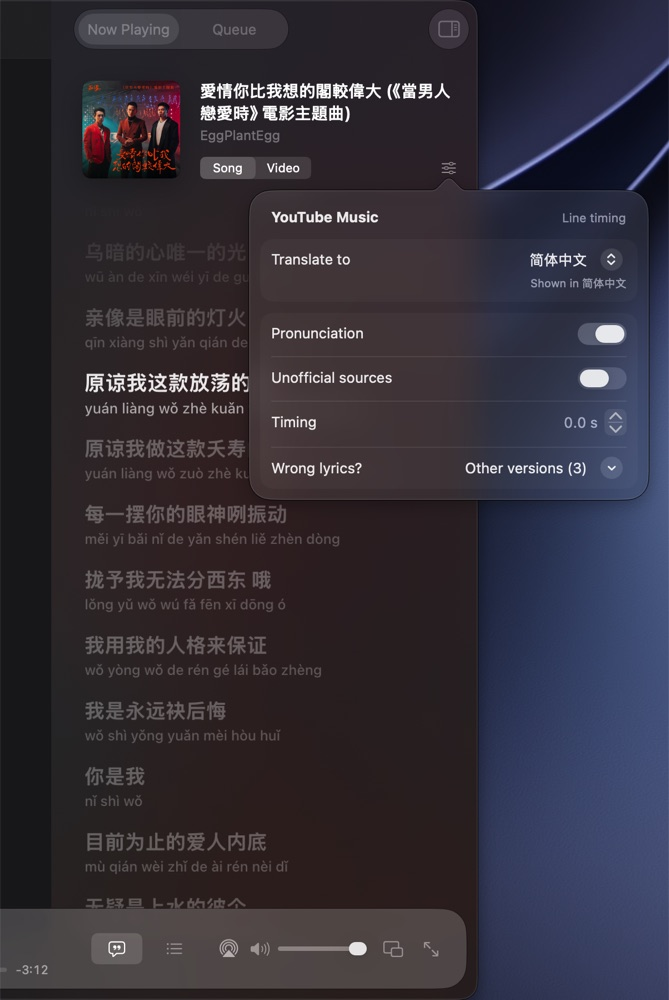
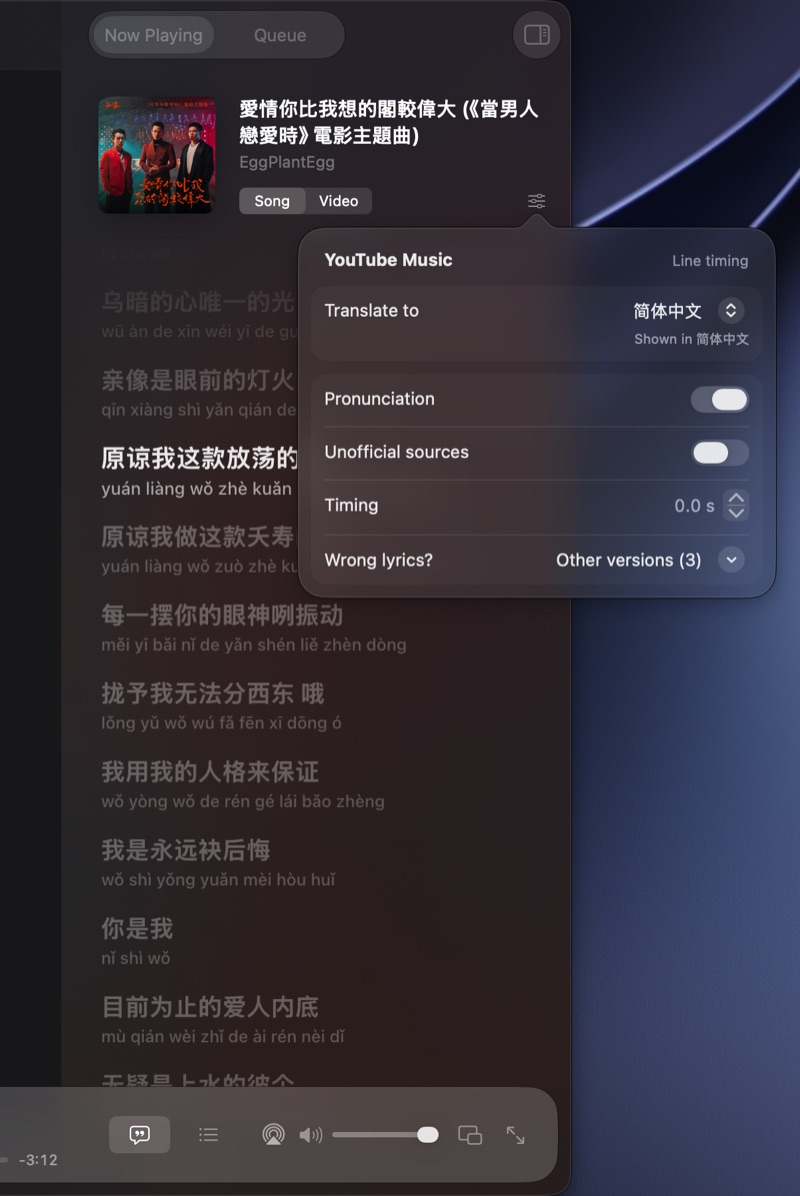
README: the original screenshots behind the LinkedIn post (full-screen player, my library, song colour) and a "Why QTube Music?" section

diff --git a/README.md b/README.md
@@ -7,7 +7,30 @@ comments, no feeds.
 QTube Music is an unofficial client. It isn't made, endorsed or supported by Google or YouTube. You need a
 YouTube Music account to see your library. You can browse and play without one, with ads, the same as on the web.
 
-![The Stage, with a vinyl turntable and word-synced lyrics with a Chinese translation](docs/images/stage.jpg)
+![The full-screen player: cover art and synced lyrics, in the cover's colour](docs/images/stage.jpg)
+
+## Why QTube Music?
+
+You can already listen to YouTube Music in a browser tab, in the website wrapped as a desktop app, or in other
+third-party clients. QTube Music exists because none of those feel like a Mac music app.
+
+- **Native, not a web page in a frame.** It's built in SwiftUI and AppKit, with real menus, keyboard shortcuts,
+  tables, Settings and Liquid Glass. Other clients usually wrap the YouTube Music website in Electron or a hidden
+  web view. Here YouTube's player runs only for playback, and everything you see and touch is the app's own.
+- **Light on your battery.** Measured on Apple silicon: under 1 % CPU when idle, and about 4–5 % in total (the app
+  plus YouTube's player) while playing in the window or on the Stage. Method and numbers are in
+  [docs/perf.md](docs/perf.md).
+- **Plays nicely with macOS.** Media keys, Control Center and AirPlay control QTube Music, and it shows up once in
+  Now Playing, not twice.
+- **Lyrics are the point.** Word-by-word sync where a source has it, several lyric sources matched to the exact
+  recording, translation on your Mac, pronunciation, Simplified ⇄ Traditional Chinese, desktop lyrics, and a
+  full-screen Stage.
+- **Song ⇄ Video without losing your place.** Switch between the song and its music video at the same moment. The
+  video keeps playing, without a hiccup, as it moves between the panel, the Stage and Picture in Picture.
+- **Free accounts work.** You don't need Premium; free accounts play with ads, the same as on the website. Premium
+  removes the ads and unlocks the experimental native engine (gapless playback, crossfade and an EQ).
+- **Music only.** No Shorts, no comments, no podcasts, no video feeds.
+- **Private by default.** No analytics or telemetry, and searches are sent signed out.
 
 ## What it does
 
@@ -29,7 +52,9 @@ YouTube Music account to see your library. You can browse and play without one, 
 - **Song colours.** The app takes its accent colour from the cover art. You can switch back to the system accent
   in Settings.
 
-![The main window: Liked Songs with the Now Playing panel](docs/images/window.jpg)
+![My own library: lyrics follow the song word by word](docs/images/library.jpg)
+
+![Feels like a Mac app: the window takes its colour from the song that's playing](docs/images/home.jpg)
 
 ## Install
 
@@ -62,7 +87,7 @@ macOS may ask once whether QTube Music can use its Keychain item. Click **Always
   stay in the app for now.
 - **No analytics.** No tracking, no telemetry, no crash reporting service. Translation runs on your Mac.
 
-![Lyrics options: a Traditional Chinese song shown in Simplified characters](docs/images/lyrics.jpg)
+<img src="docs/images/lyrics.jpg" width="400" alt="Lyrics options: a Traditional Chinese song shown in Simplified characters">
 
 ## The native engine (experimental)
 
